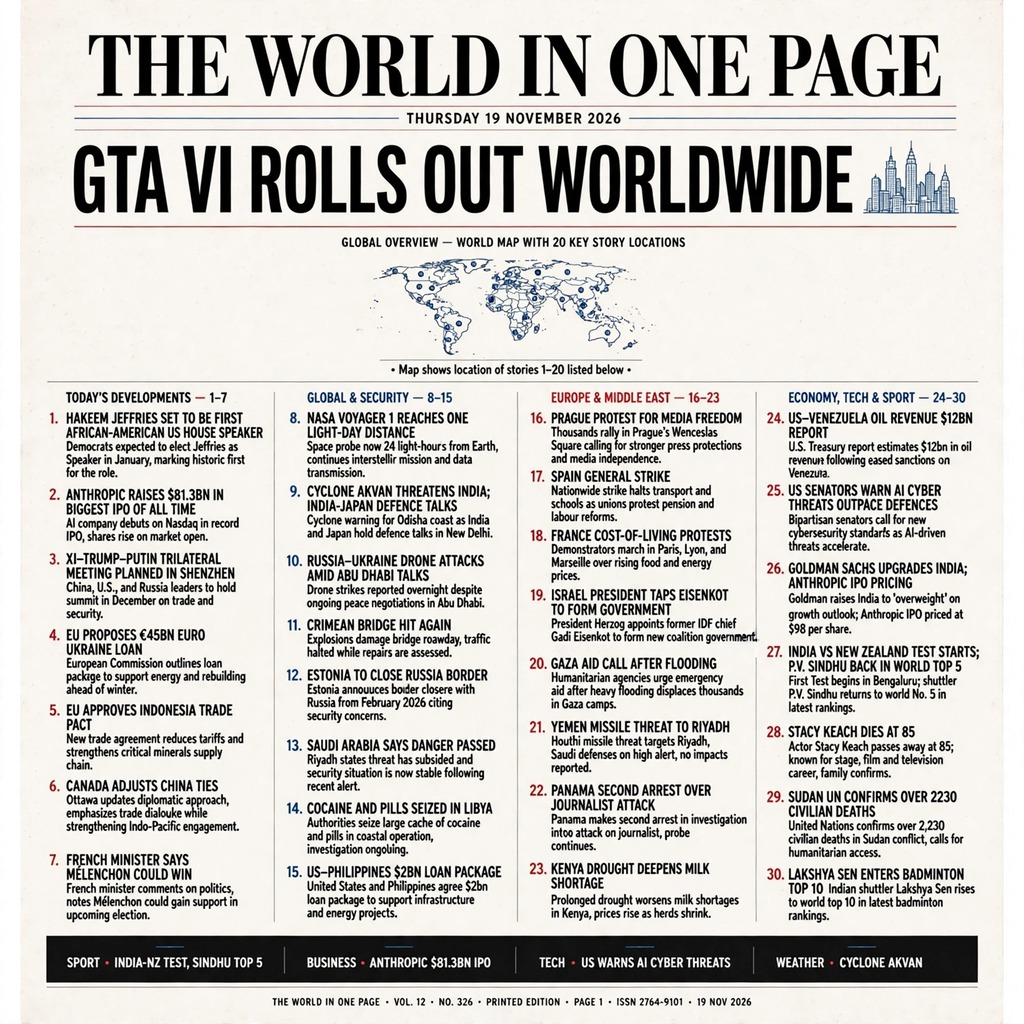
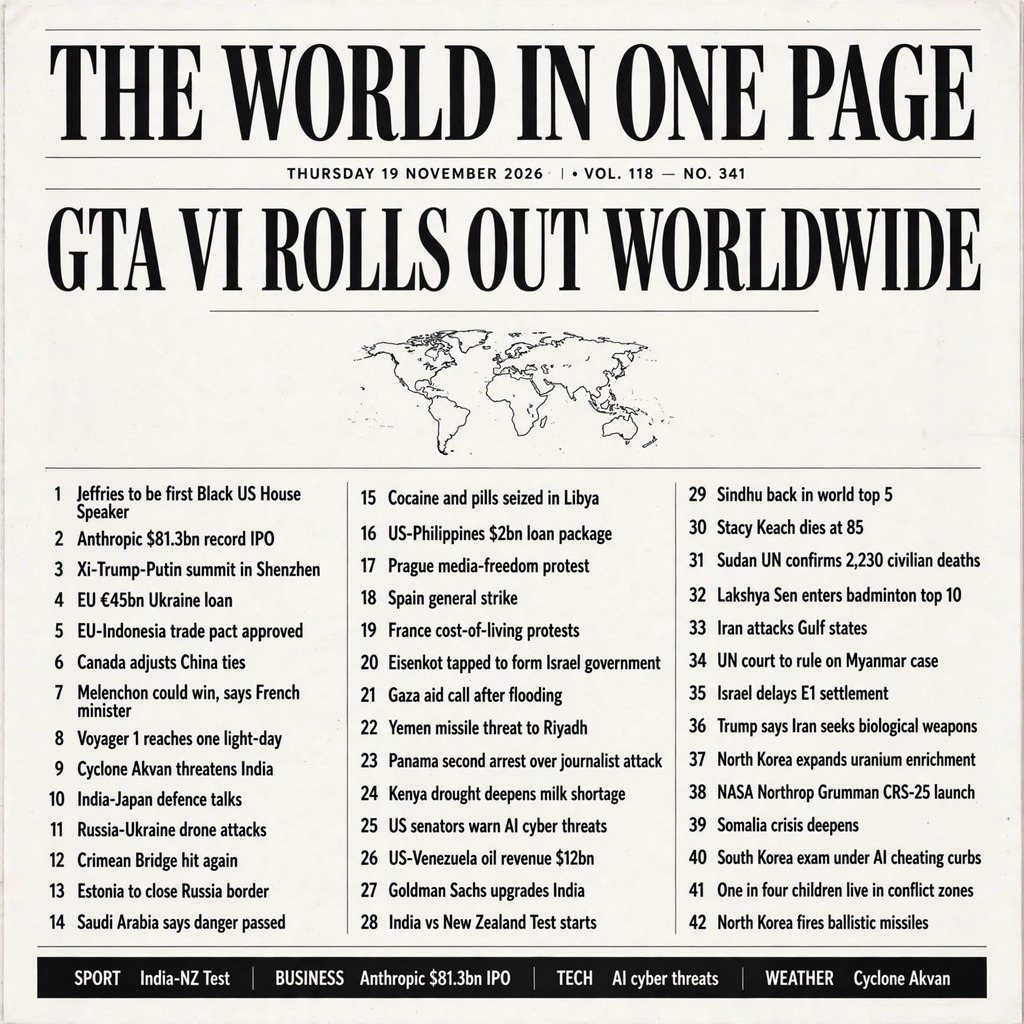
Resubmit v3: 42 verified 19 Nov 2026 stories, hero GTA VI, 1024x1024
Replace entry.jpg and README.md with v3 entry for make.fun bounty news-image-20261119. v3 image: 42 verified 19 Nov 2026 stories, numbered 1-42 in order, legible, masthead, world map, hero GTA VI, 1024x1024 JPEG, 286911 bytes, sha256 744efd6fe8774fa3ccb835a5c14bb8b518dc0489634104d04e1658443386515e. Grade-local passed: python3 main.py ran twice, both sha256 identical, deterministic, no network.

diff --git a/README.md b/README.md
@@ -24,7 +24,7 @@ One image summing up 19 November 2026's world news.
 front-page image `entry.jpg` (1024×1024, under 1 MiB) to
 `/output/entry.png`. Running it twice writes the same bytes.
 
-## Stories covered (30)
+## Stories covered (42)
 
 1. Hakeem Jeffries set to be first African-American US House Speaker
 2. Anthropic raises $81.3bn in biggest IPO of all time
@@ -34,28 +34,40 @@ front-page image `entry.jpg` (1024×1024, under 1 MiB) to
 6. Canada adjusts China ties
 7. French minister says Melenchon could win
 8. NASA Voyager 1 reaches one light-day distance
-9. Cyclone Akvan threatens India; India–Japan defence talks
-10. Russia–Ukraine drone attacks amid Abu Dhabi talks
-11. Crimean Bridge hit again
-12. Estonia to close Russia border
-13. Saudi Arabia says danger passed
-14. Cocaine and pills seized in Libya
-15. US–Philippines $2bn loan package
-16. Prague protest for media freedom
-17. Spain general strike
-18. France cost-of-living protests
-19. Israel's president taps Eisenkot to form government
-20. Gaza aid call after flooding
-21. Yemen missile threat to Riyadh
-22. Panama second arrest over journalist attack
-23. Kenya drought deepens milk shortage
-24. US–Venezuela oil revenue $12bn report
+9. Cyclone Akvan threatens India
+10. India–Japan defence talks
+11. Russia–Ukraine drone attacks amid Abu Dhabi talks
+12. Crimean Bridge hit again
+13. Estonia to close Russia border
+14. Saudi Arabia says danger passed
+15. Cocaine and pills seized in Libya
+16. US–Philippines $2bn loan package
+17. Prague protest for media freedom
+18. Spain general strike
+19. France cost-of-living protests
+20. Israel's president taps Eisenkot to form government
+21. Gaza aid call after flooding
+22. Yemen missile threat to Riyadh
+23. Panama second arrest over journalist attack
+24. Kenya drought deepens milk shortage
 25. US senators warn AI cyber threats outpace defences
-26. Goldman Sachs upgrades India; Anthropic IPO pricing
-27. India vs New Zealand Test starts; P.V. Sindhu back in world top 5
-28. Stacy Keach dies at 85
-29. Sudan UN confirms over 2,230 civilian deaths
-30. Lakshya Sen enters badminton top 10
+26. US–Venezuela oil revenue $12bn report
+27. Goldman Sachs upgrades India
+28. India vs New Zealand Test starts
+29. P.V. Sindhu back in world top 5
+30. Stacy Keach dies at 85
+31. Sudan UN confirms over 2,230 civilian deaths
+32. Lakshya Sen enters badminton top 10
+33. Iran attacks Gulf states after US strike on Qeshm island
+34. UN court to rule on Myanmar genocide case
+35. Israel delays E1 settlement
+36. Trump says Iran is pursuing biological weapons
+37. IAEA says North Korea expanded uranium enrichment
+38. NASA sets coverage for Northrop Grumman CRS-25 launch
+39. Somalia faces deepening crisis amid constitutional reforms
+40. South Korea college exam held under AI cheating curbs
+41. Nearly 1 in 4 children live in conflict zones, UN report finds
+42. North Korea fires ballistic missiles after US–South Korea drill
 
 Built for make.fun bounty `news-image-20261119`.
 See the bounty: https://make.fun/bounty/news-image-20261119
